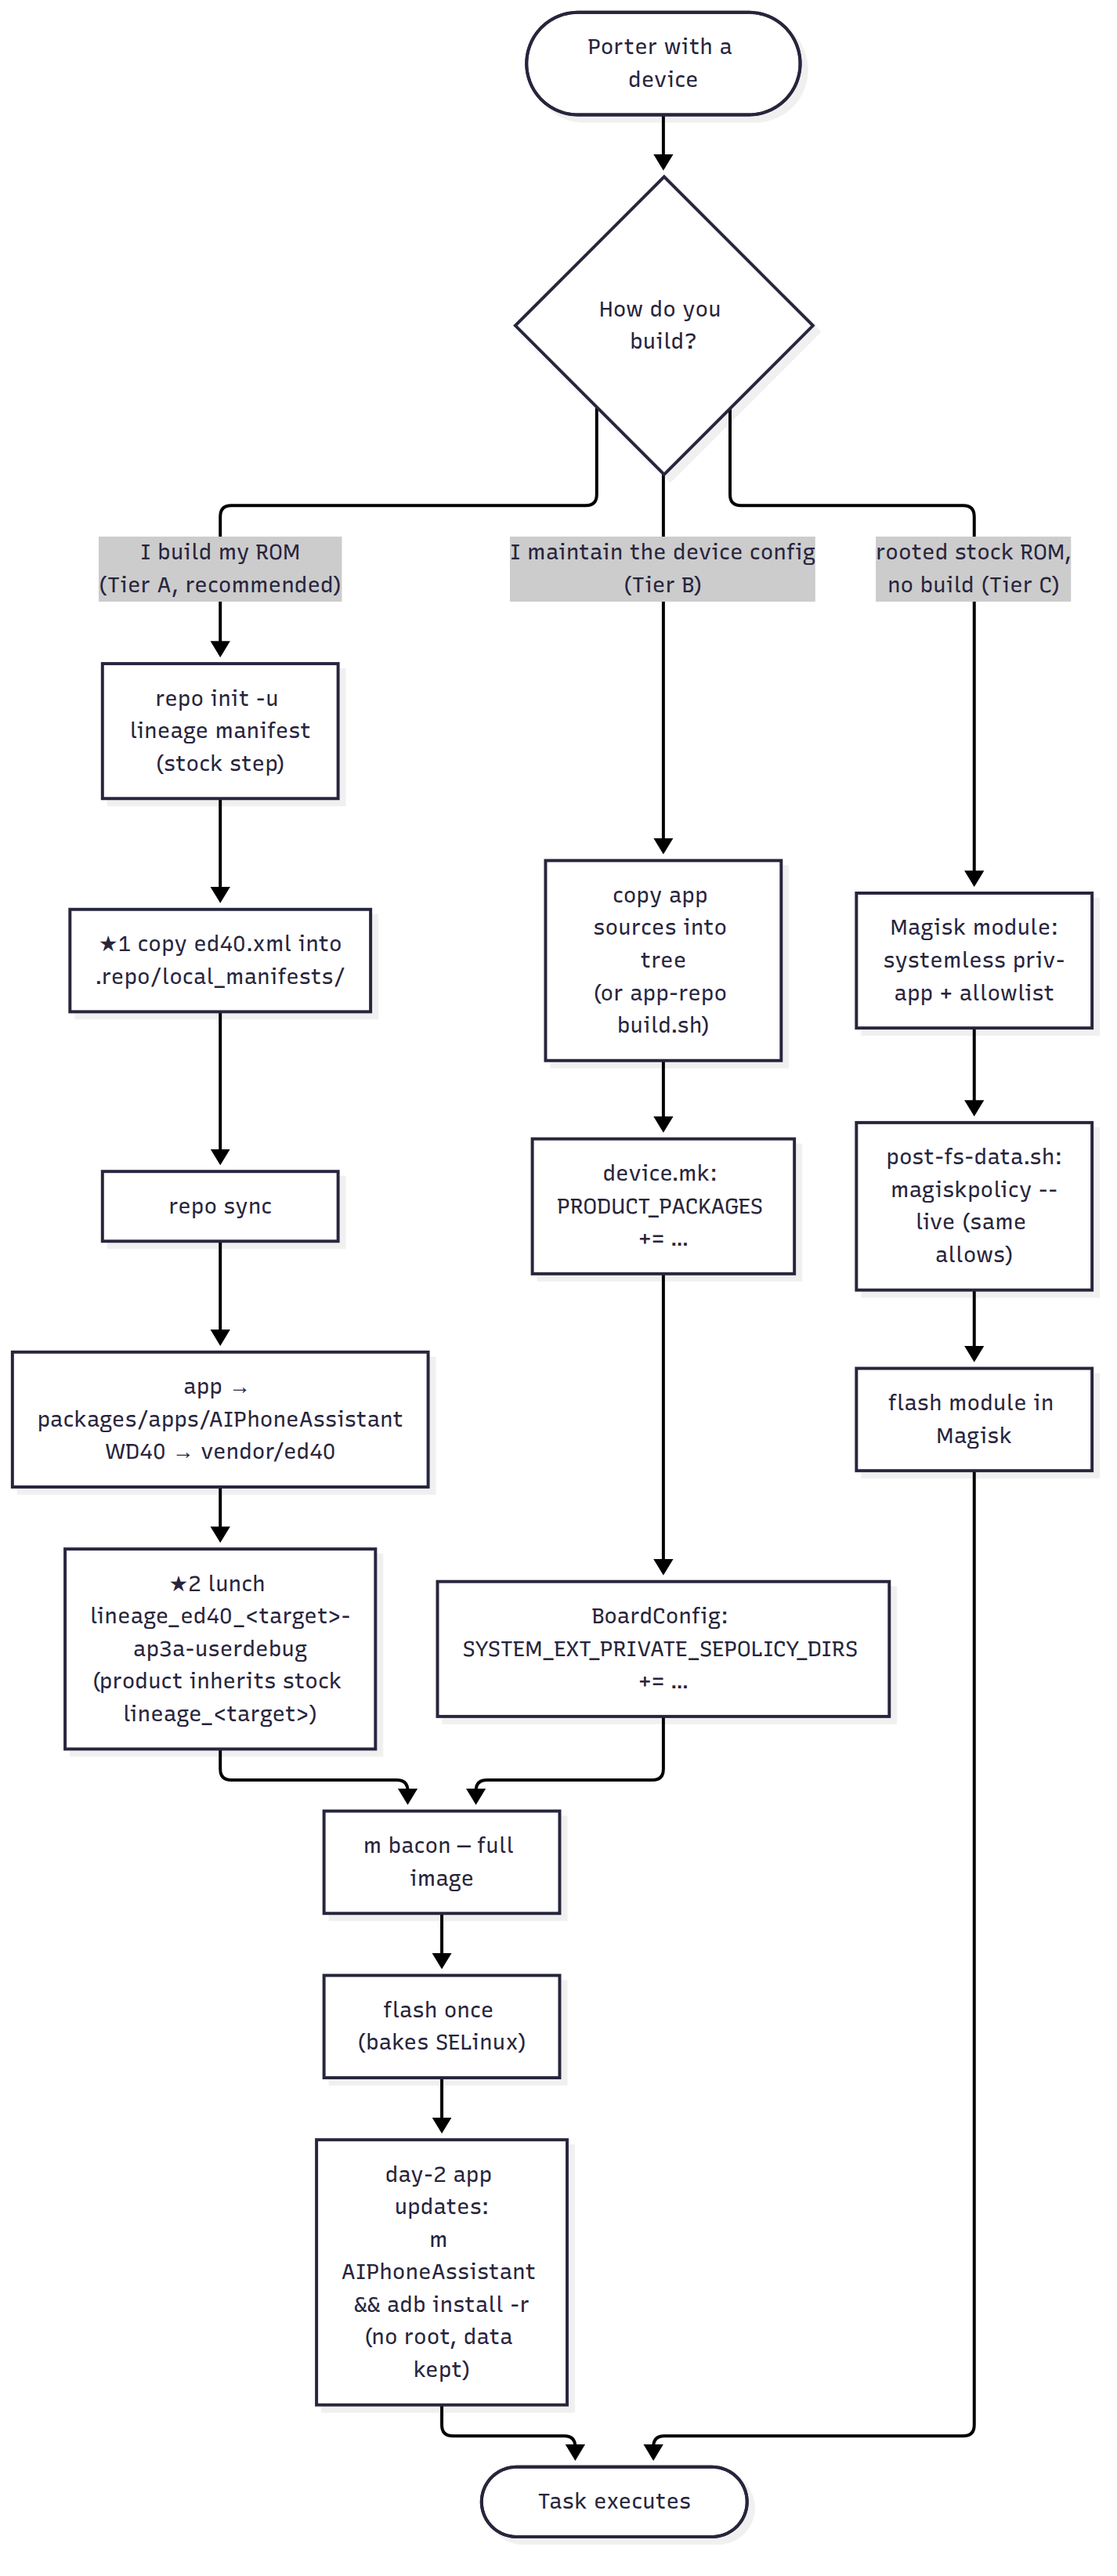
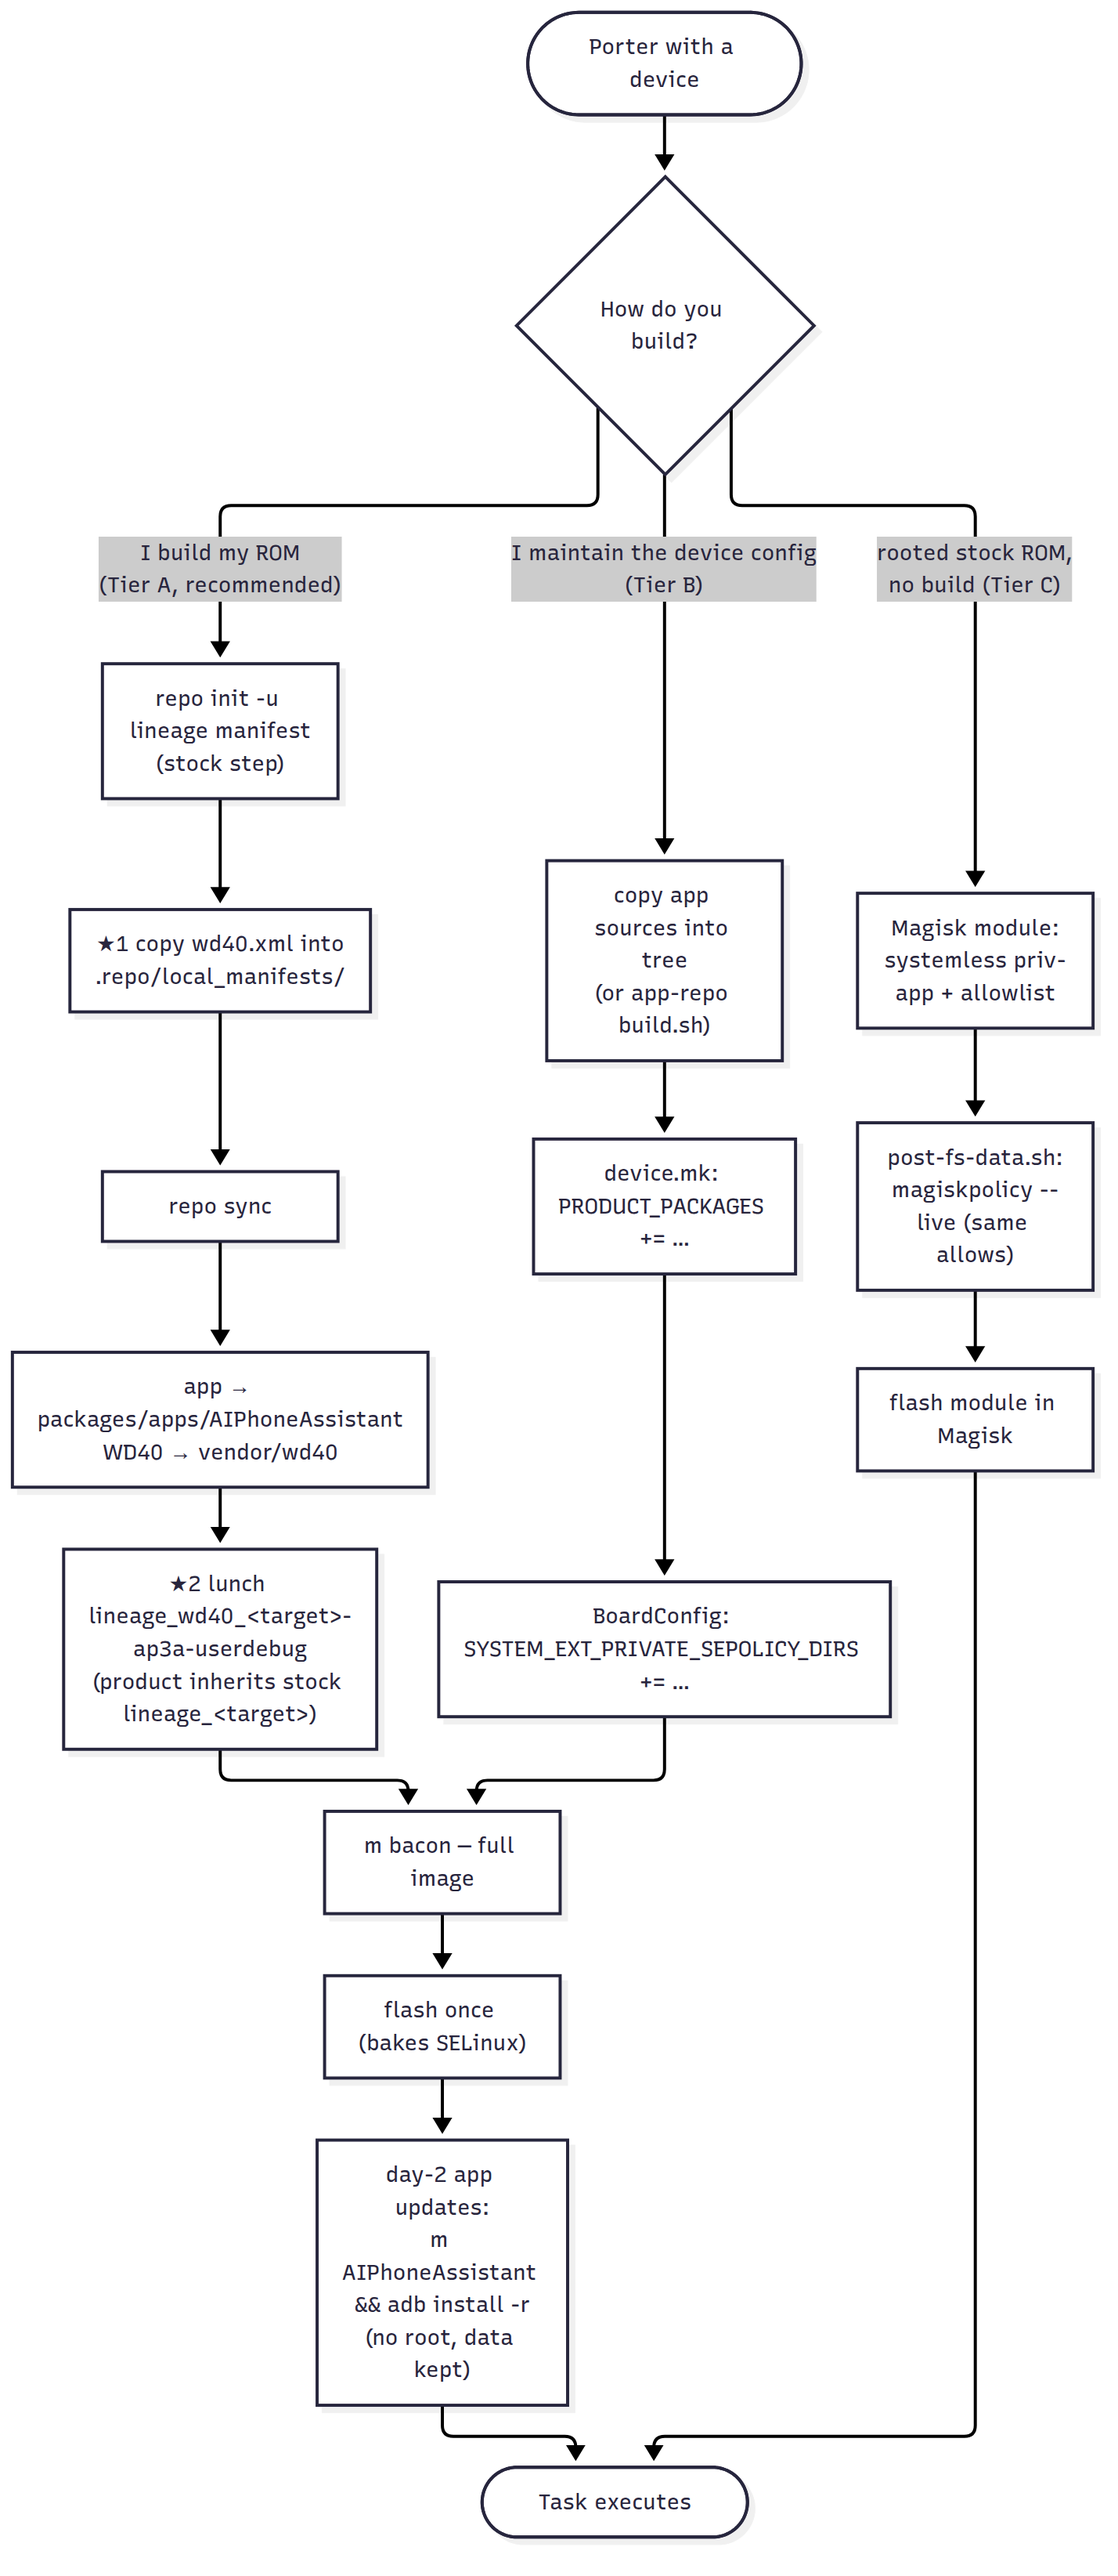
rename: ed40 (typo) -> wd40 everywhere
Products are lineage_wd40_<target>, vendor dir vendor/wd40, manifest
wd40.xml; diagrams re-rendered. Verified lunch lineage_wd40_lmi-ap3a-
userdebug resolves with LINEAGE_VERSION suffix wd40_lmi.

diff --git a/integrations/aiphoneassistant/INTEGRATION.md b/integrations/aiphoneassistant/INTEGRATION.md
@@ -10,19 +10,19 @@ Canonical app source: <https://github.com/inokinoki/aiphone_assistant>.
 
 ```
 1. repo init -u <lineageos-manifest>       # stock step
-2. add .repo/local_manifests/ed40.xml  # <-- insertion point 1 (fetch)
-3. repo sync                               # app -> packages/apps/, this repo -> vendor/ed40/
-4. lunch lineage_ed40_lmi-ap3a-userdebug       # <-- insertion point 2 (product choice)
+2. add .repo/local_manifests/wd40.xml  # <-- insertion point 1 (fetch)
+3. repo sync                               # app -> packages/apps/, this repo -> vendor/wd40/
+4. lunch lineage_wd40_lmi-ap3a-userdebug       # <-- insertion point 2 (product choice)
 5. m bacon                                 # full image, nothing upstream modified
 ```
 
-The `lineage_ed40_*` product (registered by `AndroidProducts.mk` at the root of
+The `lineage_wd40_*` product (registered by `AndroidProducts.mk` at the root of
 this repo) inherits the stock `lineage_lmi` product and appends the app,
 its privapp allowlist and the SELinux rules — the same pattern used by
 LineageOS for microG / /e/OS style distributions. Upstream files are never
 edited, so `repo sync` stays clean.
 
-For other devices: copy `lineage_ed40_lmi.mk` to `lineage_ed40_<target>.mk`, point
+For other devices: copy `lineage_wd40_lmi.mk` to `lineage_wd40_<target>.mk`, point
 the `inherit-product` line at that device's stock makefile, and register it
 in `AndroidProducts.mk`. Everything else (sepolicy private rules, app
 modules) is device-agnostic.
@@ -33,10 +33,10 @@ modules) is device-agnostic.
   signature match) — signature permissions only grant on a matching
   signature.
 - SELinux must allow `system_app` → SurfaceFlinger / InputManager (the
-  `lineage_ed40_*` product adds these; see Tier B/C if you cannot use it).
+  `lineage_wd40_*` product adds these; see Tier B/C if you cannot use it).
 - The app runs as `android.uid.system`, `system_ext_specific` + privileged.
 
-## Tier A — build with the ed40 product (recommended)
+## Tier A — build with the wd40 product (recommended)
 
 The five steps above. First full build bakes sepolicy into the image; after
 that, app-only iterations are:
@@ -65,9 +65,9 @@ For trees where you maintain the device config yourself:
    ```
 3. BoardConfig / sepolicy:
    ```make
-   SYSTEM_EXT_PRIVATE_SEPOLICY_DIRS += vendor/ed40/integrations/aiphoneassistant/sepolicy/private
+   SYSTEM_EXT_PRIVATE_SEPOLICY_DIRS += vendor/wd40/integrations/aiphoneassistant/sepolicy/private
    # optional, capture fallback only, SoC-specific:
-   BOARD_VENDOR_SEPOLICY_DIRS += vendor/ed40/integrations/aiphoneassistant/sepolicy/vendor
+   BOARD_VENDOR_SEPOLICY_DIRS += vendor/wd40/integrations/aiphoneassistant/sepolicy/vendor
    ```
 4. Full image build once (sepolicy must be baked), then `adb install -r` for
    day-2 updates.

diff --git a/docs/architecture.md b/docs/architecture.md
@@ -12,10 +12,10 @@ flowchart TD
     start(["Porter with a device"]) --> q{"How do you build?"}
 
     q -->|"I build my ROM<br/>(Tier A, recommended)"| a1["repo init -u lineage manifest<br/>(stock step)"]
-    a1 --> a2["★1 copy ed40.xml into<br/>.repo/local_manifests/"]
+    a1 --> a2["★1 copy wd40.xml into<br/>.repo/local_manifests/"]
     a2 --> a3["repo sync"]
-    a3 --> a4["app → packages/apps/AIPhoneAssistant<br/>WD40 → vendor/ed40"]
-    a4 --> a5["★2 lunch lineage_ed40_&lt;target&gt;-ap3a-userdebug<br/>(product inherits stock lineage_&lt;target&gt;)"]
+    a3 --> a4["app → packages/apps/AIPhoneAssistant<br/>WD40 → vendor/wd40"]
+    a4 --> a5["★2 lunch lineage_wd40_&lt;target&gt;-ap3a-userdebug<br/>(product inherits stock lineage_&lt;target&gt;)"]
     a5 --> a6["m bacon — full image"]
     a6 --> a7["flash once (bakes SELinux)"]
     a7 --> day2["day-2 app updates:<br/>m AIPhoneAssistant && adb install -r<br/>(no root, data kept)"]
@@ -39,19 +39,19 @@ flowchart TD
 flowchart LR
     subgraph repos["GitHub (→ AgentVis OS org)"]
         APP["aiphone_assistant<br/>(app sources, Android.bp,<br/>privapp allowlist, build.sh)"]
-        WD["WD40 (= vendor/ed40)<br/>lunch products · sepolicy ·<br/>local_manifests · magisk · docs"]
+        WD["WD40 (= vendor/wd40)<br/>lunch products · sepolicy ·<br/>local_manifests · magisk · docs"]
     end
 
     subgraph tree["AOSP / LineageOS build tree"]
         P["packages/apps/AIPhoneAssistant"]
-        V["vendor/ed40"]
+        V["vendor/wd40"]
         D["device/&lt;vendor&gt;/&lt;target&gt;<br/>(upstream — never edited)"]
         IMG["image: system_ext/priv-app/…apk<br/>+ permissions XML + SELinux policy"]
     end
 
     APP -->|local_manifests sync| P
     WD -->|local_manifests sync| V
-    V -->|"lineage_ed40_&lt;target&gt;<br/>inherit-product + += "| IMG
+    V -->|"lineage_wd40_&lt;target&gt;<br/>inherit-product + += "| IMG
     P --> IMG
     D -->|stock product inherits| IMG
 

diff --git a/README.md b/README.md
@@ -1,7 +1,7 @@
 # WD40
 
 Integration glue and system-side change log for the **AgentVis OS** device
-projects. WD40 (a.k.a. ed40 in lunch target names) records everything an agent app needs *outside of its own
+projects. WD40 records everything an agent app needs *outside of its own
 source tree* — SELinux policy, product makefile entries, privileged
 permission allowlists, image-build and deployment runbooks — so these changes
 are versioned, reviewable, and reusable across devices instead of living as
@@ -26,7 +26,7 @@ permissions, SELinux, flashing), it belongs here.
 - [`docs/system-integrations.md`](docs/system-integrations.md) — the full
   inventory of system-side changes made so far, each with what / where / why
   and notes on generalizing to other devices and packages.
-- `lineage_ed40_*` lunch products (root `AndroidProducts.mk`): stock
+- `lineage_wd40_*` lunch products (root `AndroidProducts.mk`): stock
   device product + the integration, zero upstream edits — the
 - [`integrations/aiphoneassistant/`](integrations/aiphoneassistant/) — the
   concrete artifacts for the AIPhoneAssistant integration (sepolicy rules,

diff --git a/docs/system-integrations.md b/docs/system-integrations.md
@@ -97,7 +97,7 @@ adb install -r out/target/product/<target>/system_ext/priv-app/AIPhoneAssistant/
 1. Copy `integrations/aiphoneassistant/sepolicy/private/*.te` into the
    target's system_ext private sepolicy dir; confirm
    `SYSTEM_EXT_PRIVATE_SEPOLICY_DIRS` includes it.
-2. Either lunch `lineage_ed40_<target>` (see the runbook) or add the `PRODUCT_PACKAGES` line to the target's product makefile.
+2. Either lunch `lineage_wd40_<target>` (see the runbook) or add the `PRODUCT_PACKAGES` line to the target's product makefile.
 3. Build the full image once (`m AIPhoneAssistant` alone is not enough for
    sepolicy), flash, then iterate with `adb install -r` for app updates.
 4. Only if the capture fallback is exercised: add vendor sepolicy rules from
